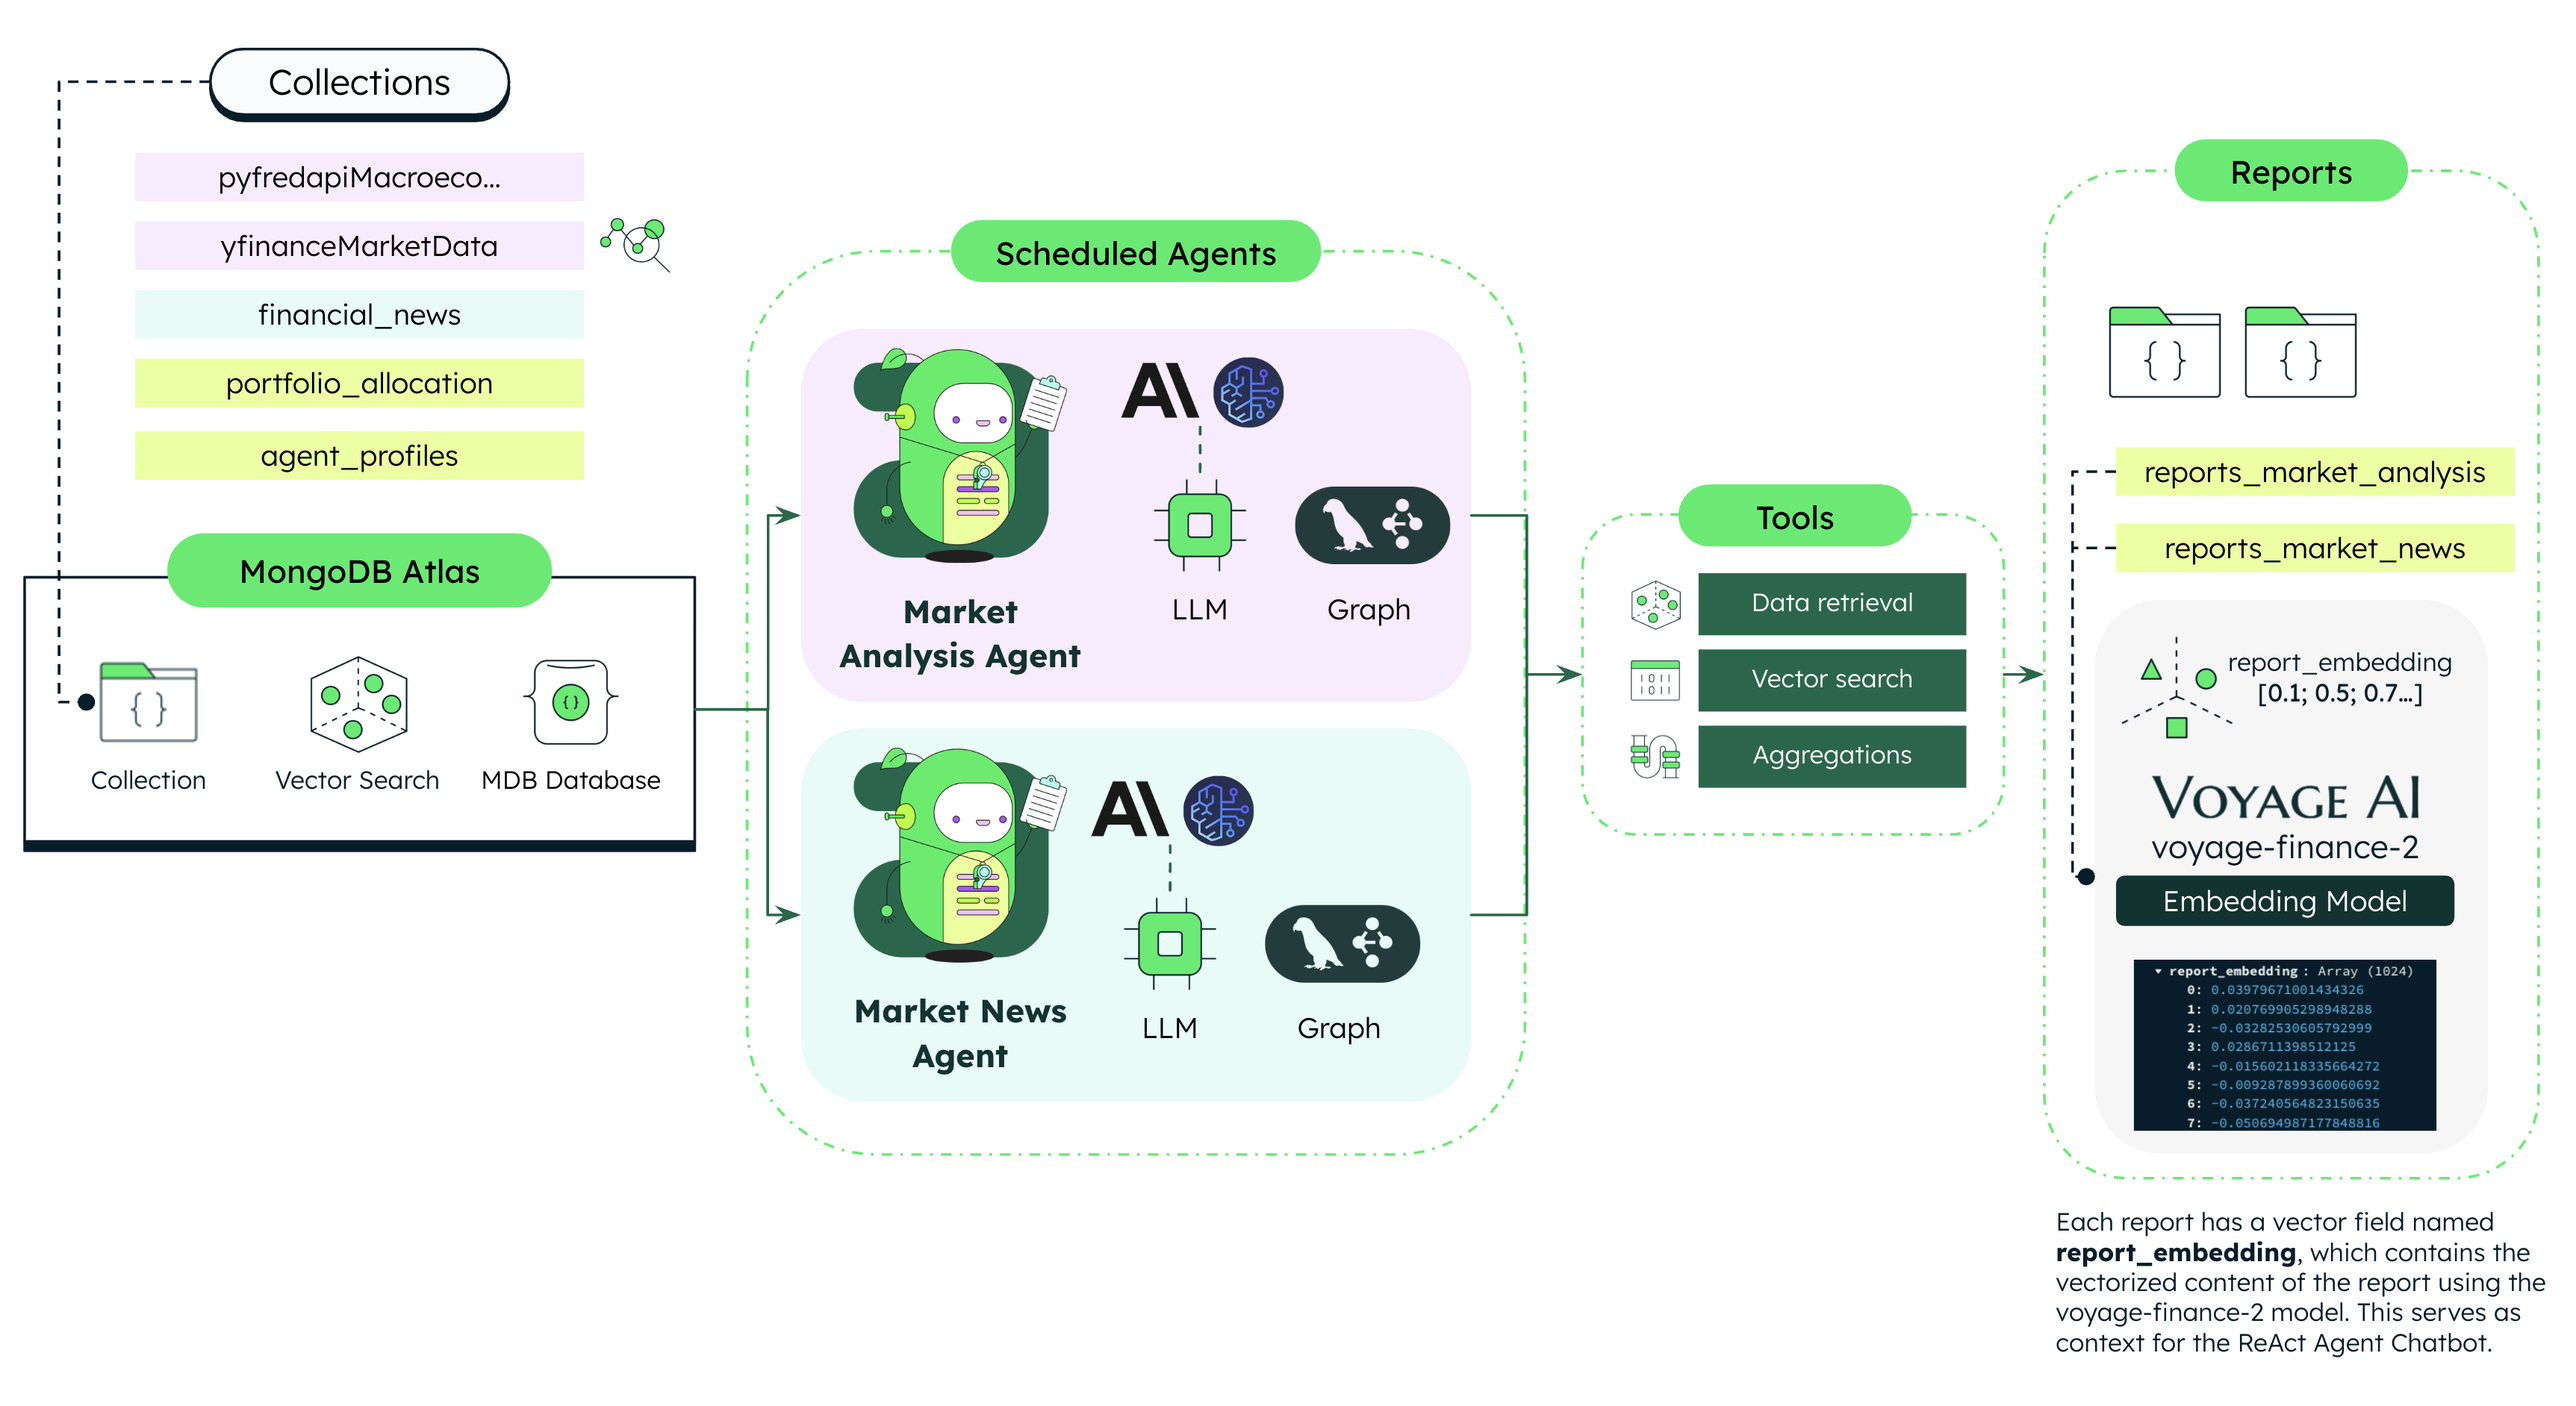
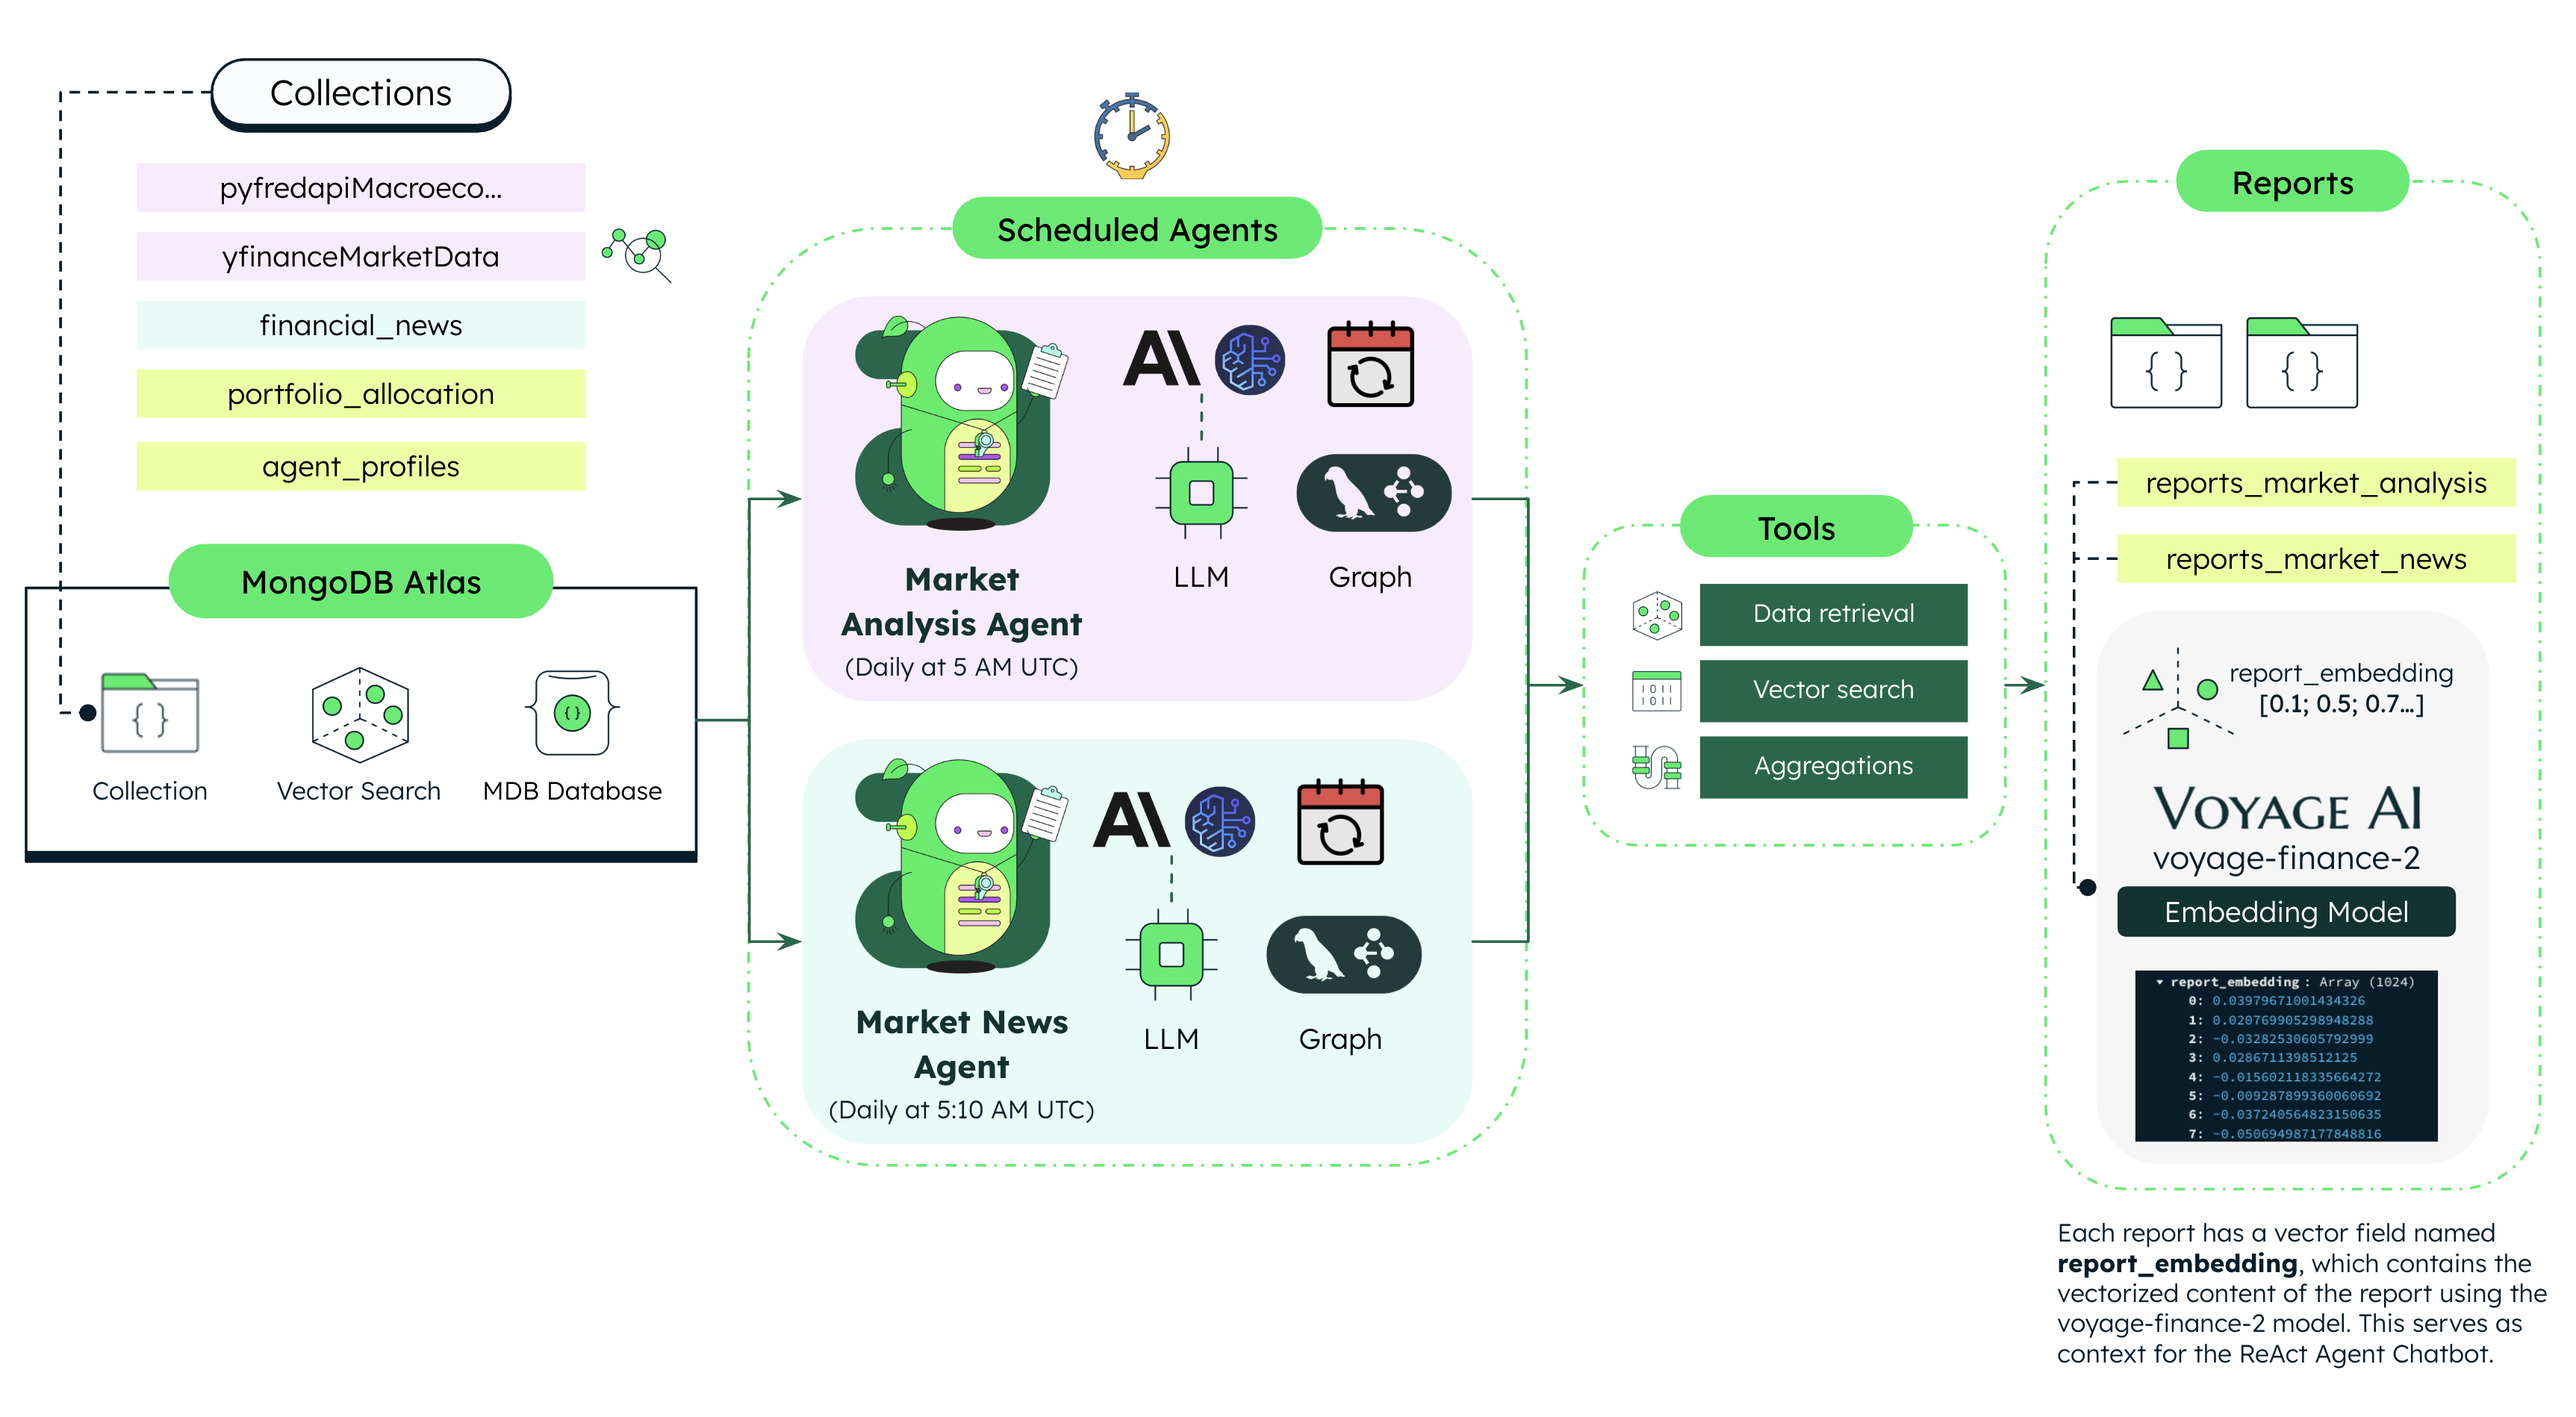
Update README and diagram
Update README and diagram

diff --git a/README.md b/README.md
@@ -1,15 +1,57 @@
 # Capital Markets Agents Service
 
-This repository hosts the backend for the Capital Markets Agents service. It is designed to provide automated, AI-driven market intelligence for capital markets professionals through specialized agent workflows. The service combines market data analysis, news sentiment processing, and portfolio insights to deliver comprehensive financial intelligence.
+This repository hosts the backend for the **Capital Markets Agents** service, a sophisticated AI-powered system that delivers automated financial intelligence to capital markets professionals. By combining real-time market data analysis, news sentiment processing, and portfolio insights, the service helps investment professionals make more informed decisions backed by comprehensive, data-driven intelligence.
 
-The system features two primary agent workflows:
+### Key Features
+
+-  **Automated Intelligence**: Daily scheduled analysis of market trends and financial news
+-  **Portfolio-Specific Insightse**: Personalized recommendations based on current portfolio allocation
+-  **Sentiment Analysise**: AI-powered processing of news sentiment and its potential impact on investments
+-  **Vector Searche**: Semantic understanding of financial news beyond simple keyword matching
+
+### Technical Architecture
+The service is built on a modular foundation using:
+
+-  **LangGraph**: For orchestrating complex, multi-step agent workflows
+-  **MongoDB Atlas**: For data persistence, time series analysis, and vector search capabilities
+-  **FastAPI**: For reliable, documented API endpoints
+-  **Financial Data Integration**: With Yahoo Finance and FRED economic indicators
+
+## Agentic Workflows
 
 1. **Market Analysis Agent:** Analyzes asset trends, macroeconomic indicators, and market volatility to generate portfolio insights and recommendations.
-2. **Market News Agent:** Processes financial news, performs sentiment analysis, and produces summarized market news intelligence
 
-Built on a modular architecture using LangGraph for workflow orchestration, the service leverages MongoDB Atlas for data persistence, FastAPI for API endpoints, and integrates with financial data sources including Yahoo Finance and FRED API. Reports are enhanced with vector embeddings to enable semantic search capabilities across market insights and news sentiment.
+> * This agent workflow is scheduled to execute automatically **on a daily basis at 5:00 AM UTC**, delivering consistent market analysis reports for financial decision-making.
 
-This solution enables financial professionals to access AI-powered market intelligence through scheduled reports and on-demand analysis, helping to inform investment decisions with data-driven insights.
+2. **Market News Agent:** Processes financial news data to provide portfolio-specific sentiment analysis and summarized market intelligence, helping investors understand how current news may impact their investments.
+
+> * This agent workflow is scheduled to execute automatically **on a daily basis at 5:10 AM UTC**, delivering timely news sentiment reports for financial decision-making.
+
+> **_Note:_** The current implementation of both agent workflows has been intentionally streamlined for demonstration and educational purposes. While the workflows may appear relatively linear and deterministic, the underlying architecture has been designed with extensibility in mind. Some components are simplified or emulated to ensure predictable outputs and controllable execution flows during demonstrations. There is substantial room for increasing complexity in terms of perception (adding more data sources), planning (implementing more sophisticated decision trees or recursive reasoning), and overall reasoning capabilities (incorporating feedback loops or multi-agent collaboration). This foundation provides an excellent starting point for more advanced capital markets intelligence applications while maintaining clarity and reliability in the core functionality.
+
+## Agent Tools
+
+-  **Accessible for Market Analysis Agent:** 
+   - **Portfolio Allocation Tool**: Retrieves current portfolio composition from MongoDB, including assets, descriptions, and allocation percentages.
+   - **Asset Trends Tool**: Analyzes price movements of portfolio assets by comparing current prices with 50-day moving averages to identify trends.
+   - **Macroeconomic Indicators Tool**: Evaluates key economic metrics (GDP, Interest Rates, Unemployment) from the FRED API to provide market context and asset allocation recommendations.
+   - **Market Volatility Tool**: Assesses market risk using VIX index data, calculating percentage changes and providing guidance on equity exposure.
+   - **Portfolio Overall Diagnosis Tool**: Generates comprehensive investment recommendations by synthesizing all analyses through an LLM (AWS Bedrock/Anthropic).
+
+-  **Accessible for Market News Agent:** 
+   - **Portfolio Allocation Tool**: Retrieves current portfolio composition from MongoDB, including assets, descriptions, and allocation percentages.
+   - **Asset News Tool**: Uses MongoDB Atlas Vector Search to find relevant financial news articles for each portfolio asset, leveraging semantic search capabilities.
+   - **Asset News Summary Tool**: Performs sentiment analysis on financial news, calculates sentiment scores, and generates concise summaries using AWS Bedrock/Anthropic LLM.
+   
+### News Sentiment Logic (Vector Search)
+The news sentiment logic utilizes MongoDB's Vector Search capabilities to enhance the analysis of financial news articles. The process involves two key components:
+
+1. **Semantic Search Implementation**: Using MongoDB's Vector Search capability, the system can find semantically similar news articles based on these embeddings—identifying both explicit mentions of a ticker symbol and contextually relevant articles that don't directly reference it.
+
+2. **Portfolio Sentiment Calculation**: For each asset in the portfolio, the system calculates an average sentiment score from its related articles, providing a consolidated sentiment indicator that helps assess market perception of that asset.
+
+This approach enables both explicit keyword matching and deeper semantic understanding of financial news, offering more comprehensive insights than traditional text-based searches.
+
 
 ## High Level Architecture
 
@@ -72,24 +114,9 @@ This combination of features enables the Capital Markets Agents service to maint
 - [python-dotenv](https://pypi.org/project/python-dotenv/) for environment variable management.
 - [pytz](https://pypi.org/project/pytz/) for timezone handling in scheduled reports.
 
-
 ## Relevant Models
 
 - [voyage-finance-2](https://blog.voyageai.com/2024/06/03/domain-specific-embeddings-finance-edition-voyage-finance-2/) for generating embeddings for market and news reports.
-
-### Agentic Workflows
-
-- **Market Analysis Agent**: Analyzes asset trends, macroeconomic indicators, and market volatility to generate portfolio insights and recommendations.
-- **Market News Agent**: Processes financial news, performs sentiment analysis, and produces summarized market news intelligence.
-
-### News Sentiment Logic (Vector Search)
-The news sentiment logic utilizes MongoDB's Vector Search capabilities to enhance the analysis of financial news articles. The process involves two key components:
-
-1. **Semantic Search Implementation**: Using MongoDB's Vector Search capability, the system can find semantically similar news articles based on these embeddings—identifying both explicit mentions of a ticker symbol and contextually relevant articles that don't directly reference it.
-
-2. **Portfolio Sentiment Calculation**: For each asset in the portfolio, the system calculates an average sentiment score from its related articles, providing a consolidated sentiment indicator that helps assess market perception of that asset.
-
-This approach enables both explicit keyword matching and deeper semantic understanding of financial news, offering more comprehensive insights than traditional text-based searches.
 
 ### Scheduler
 
